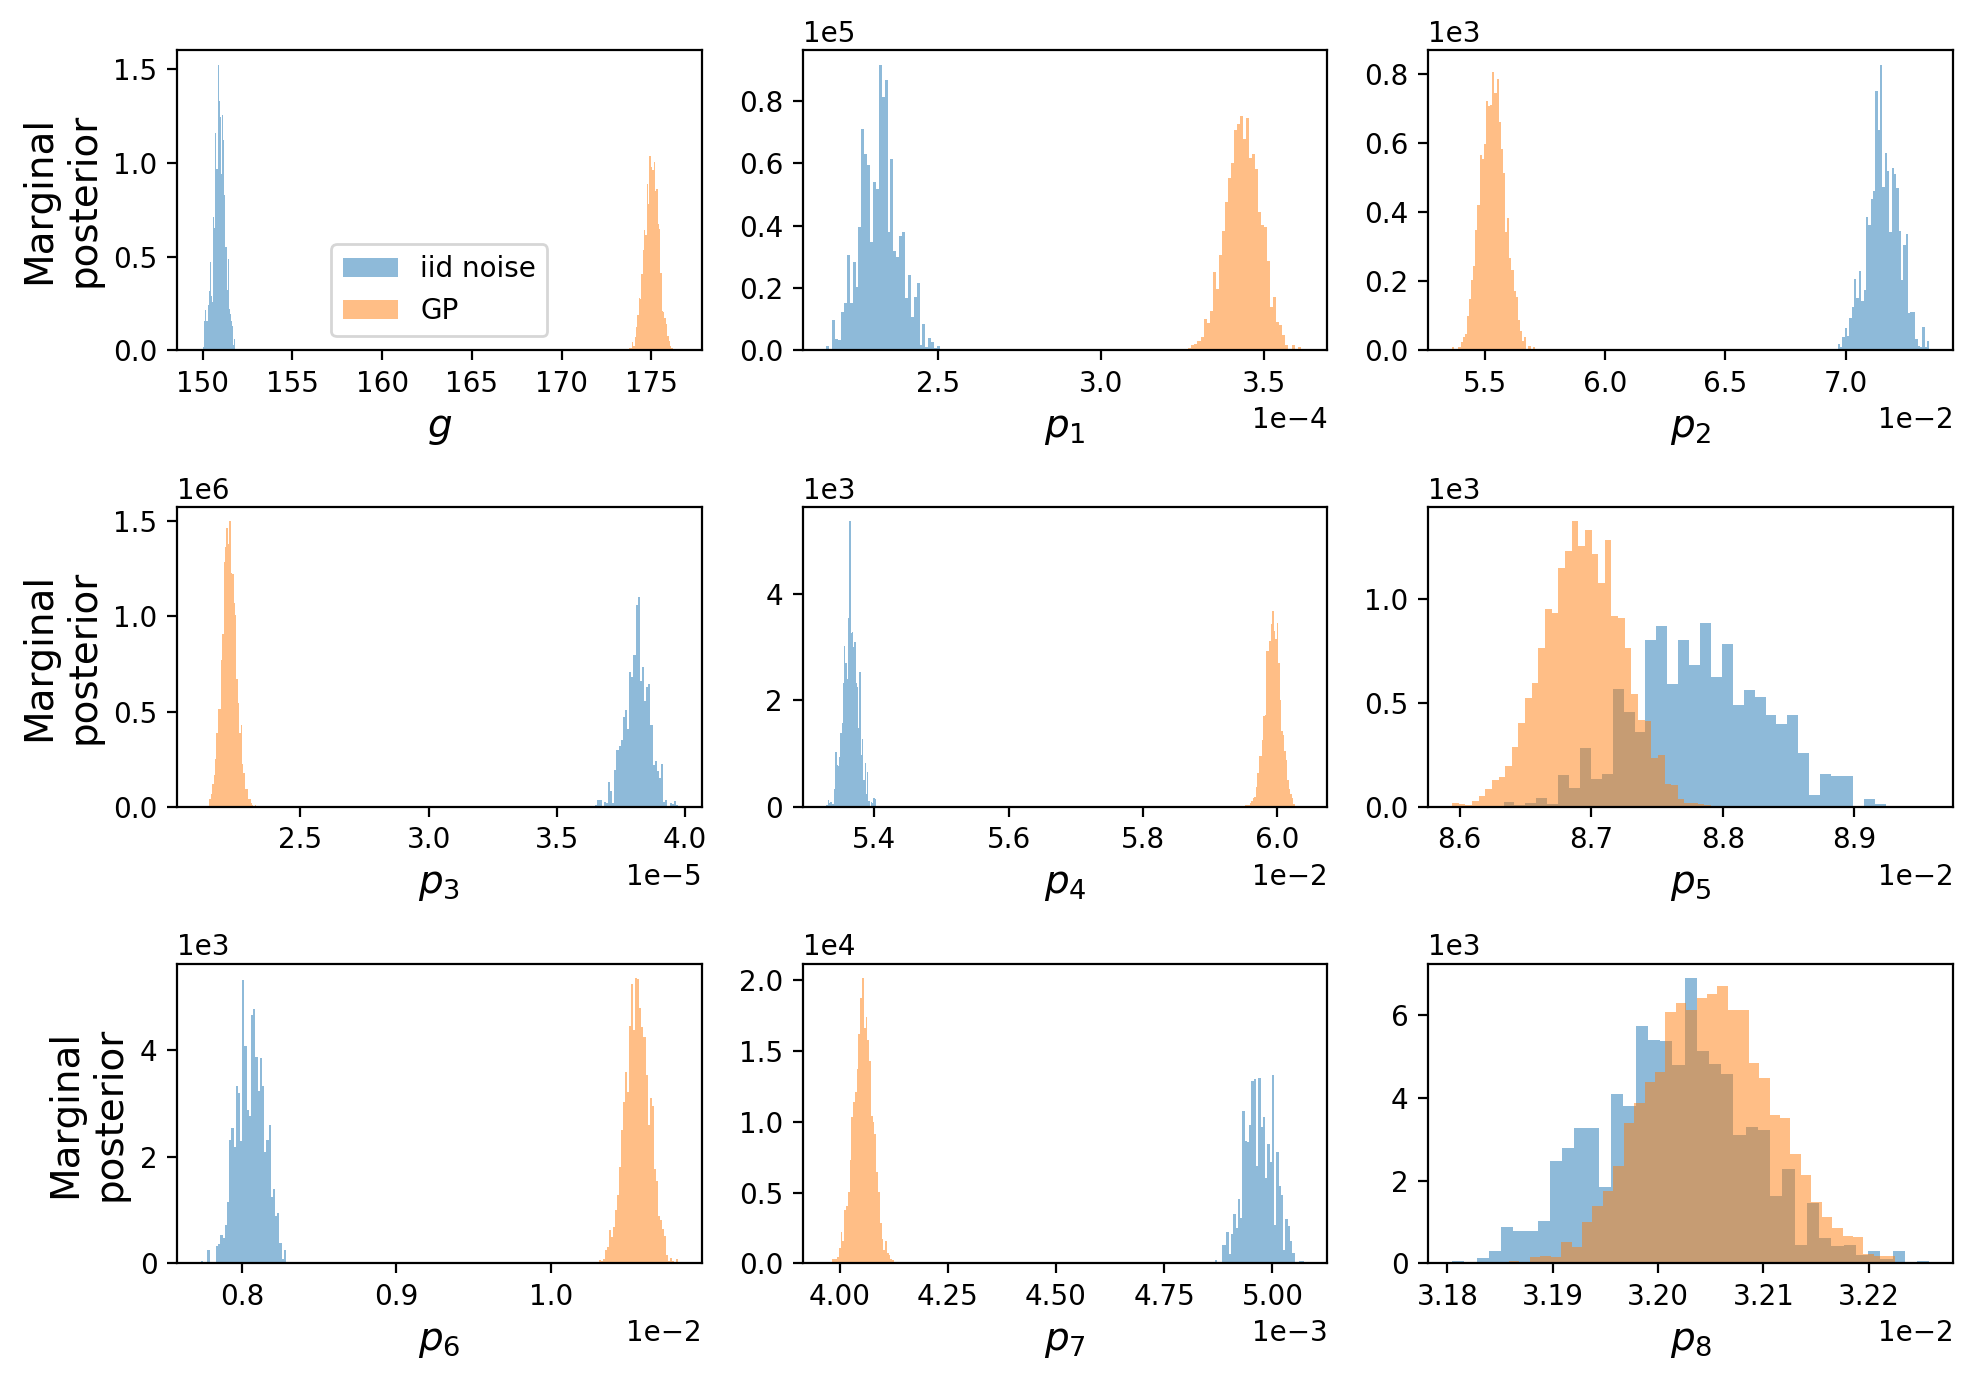
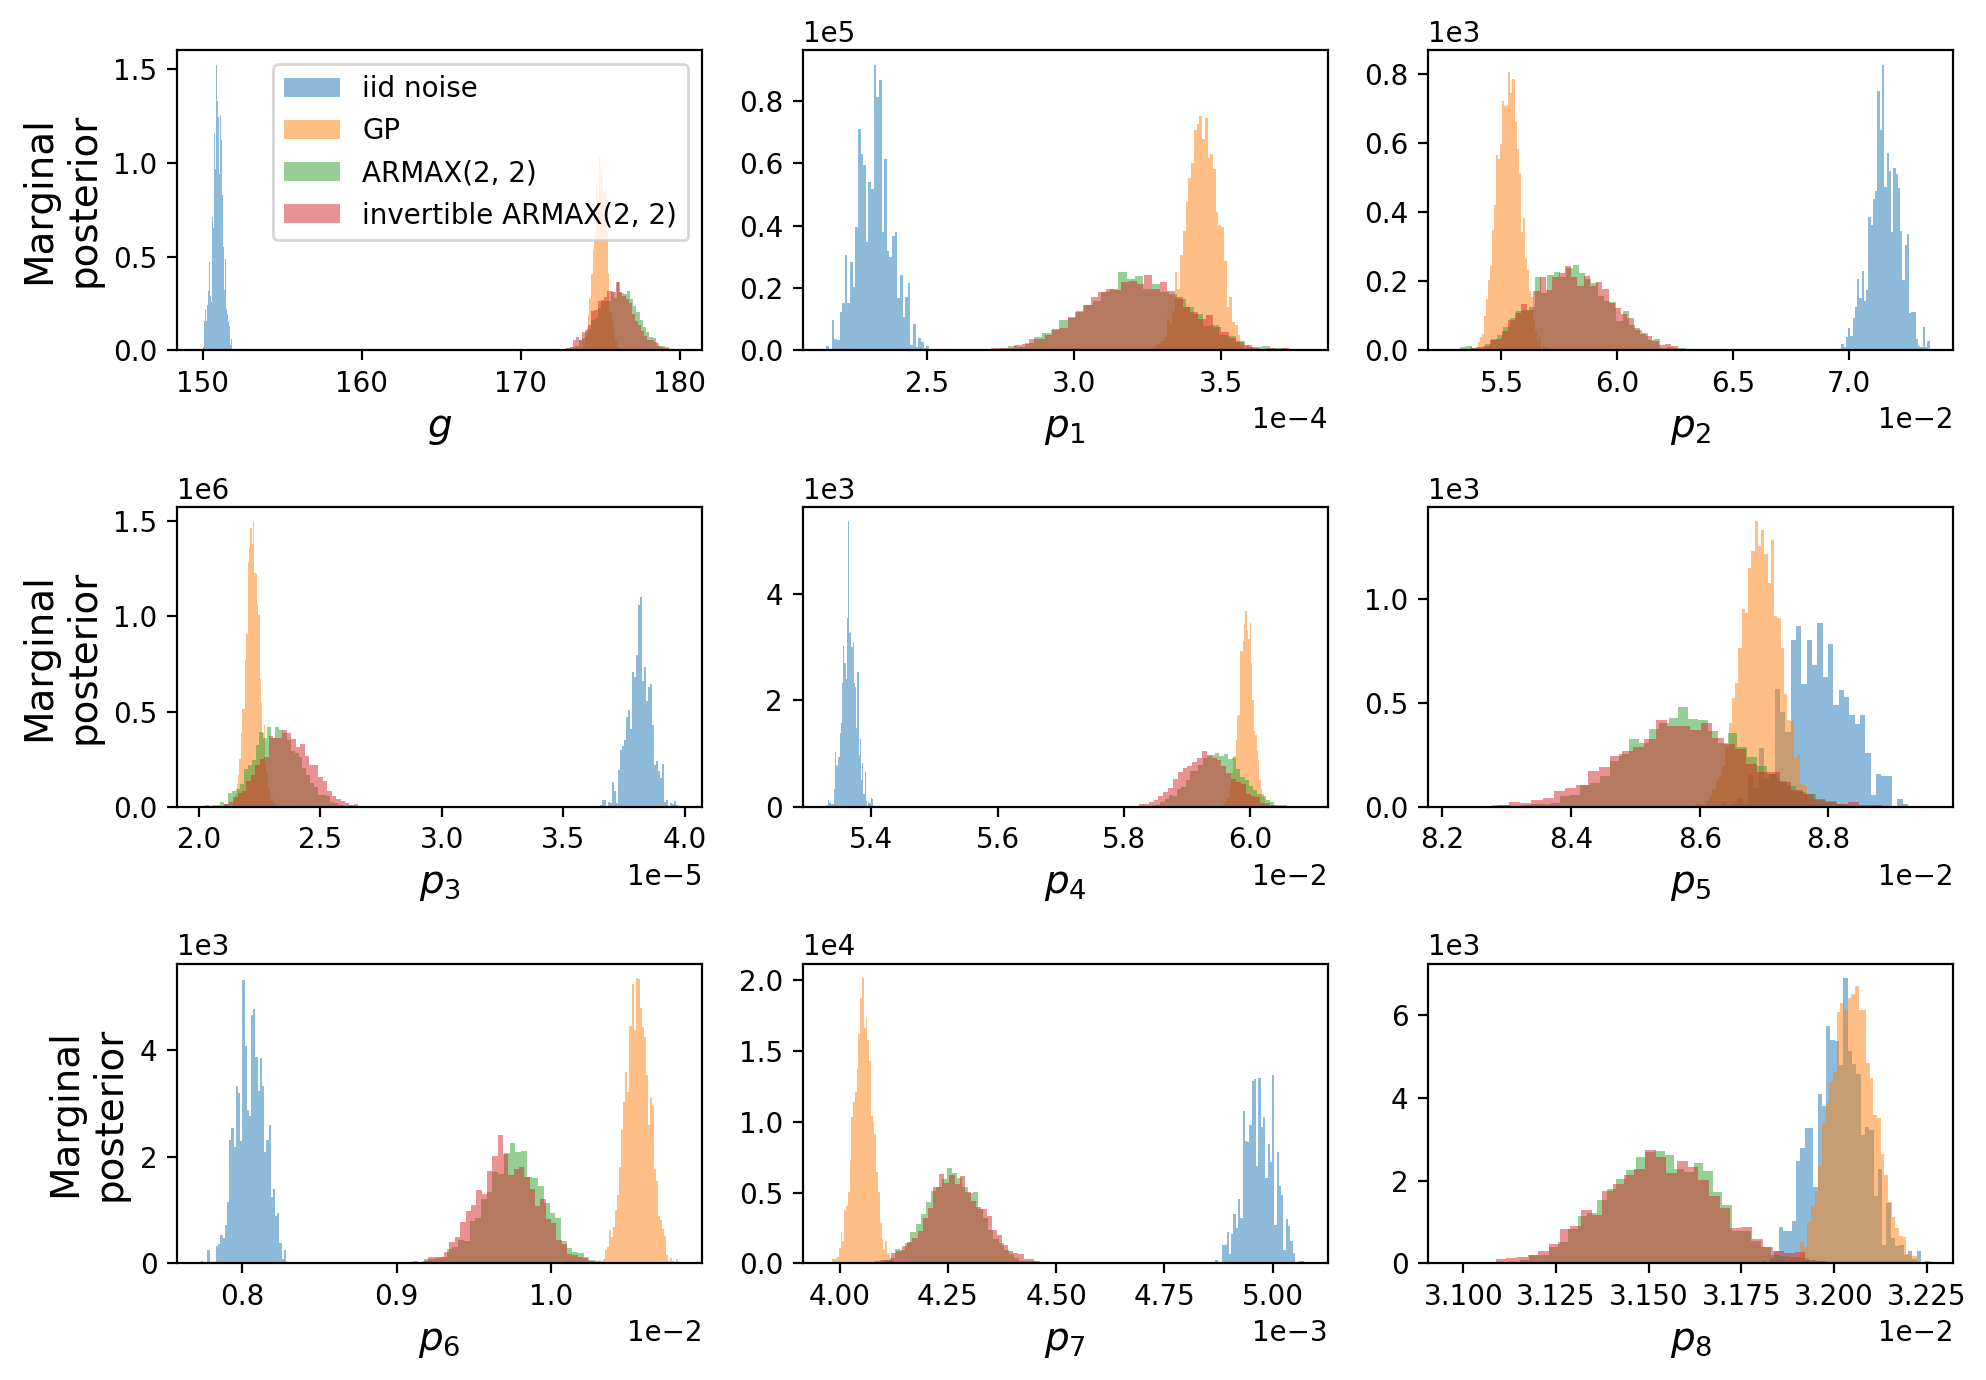
Update compare posterior plot

diff --git a/ion-channel-models/compare-posteriors.py b/ion-channel-models/compare-posteriors.py
@@ -15,8 +15,9 @@ Posterior distributions with different discrepancy models.
 """
 
 model_list = ['A', 'B', 'C']
-discrepancy_list = ['', '-gp']#, '-arma_2_2']
-discrepancy_names = ['iid noise', 'GP']#, 'ARMAX(2, 2)']
+discrepancy_list = ['', '-gp', '-arma_2_2', '-arma_2_2-inv']
+discrepancy_names = ['iid noise', 'GP', 'ARMAX(2, 2)', 'invertible ARMAX(2, 2)']
+chain_to_use = [2, 2, 2, 1]
 
 try:
     which_model = sys.argv[1] 
@@ -44,10 +45,12 @@ saveas = 'compare-' + info_id + '-sinewave-posteriors'
 all_samples = []
 lastniter = 25000
 thinning = 5
-for d in discrepancy_list:
+for i, d in enumerate(discrepancy_list):
     loaddir = './out/mcmc-' + info_id + d
     loadas = info_id + '-sinewave'
-    samples = pints.io.load_samples('%s/%s-chain_2.csv' % (loaddir, loadas))
+    loadchain = chain_to_use[i]
+    samples = pints.io.load_samples('%s/%s-chain_%s.csv'
+            % (loaddir, loadas, loadchain))
     # burn in and thinning
     samples = samples[-lastniter::thinning, :]
     all_samples.append(samples)
